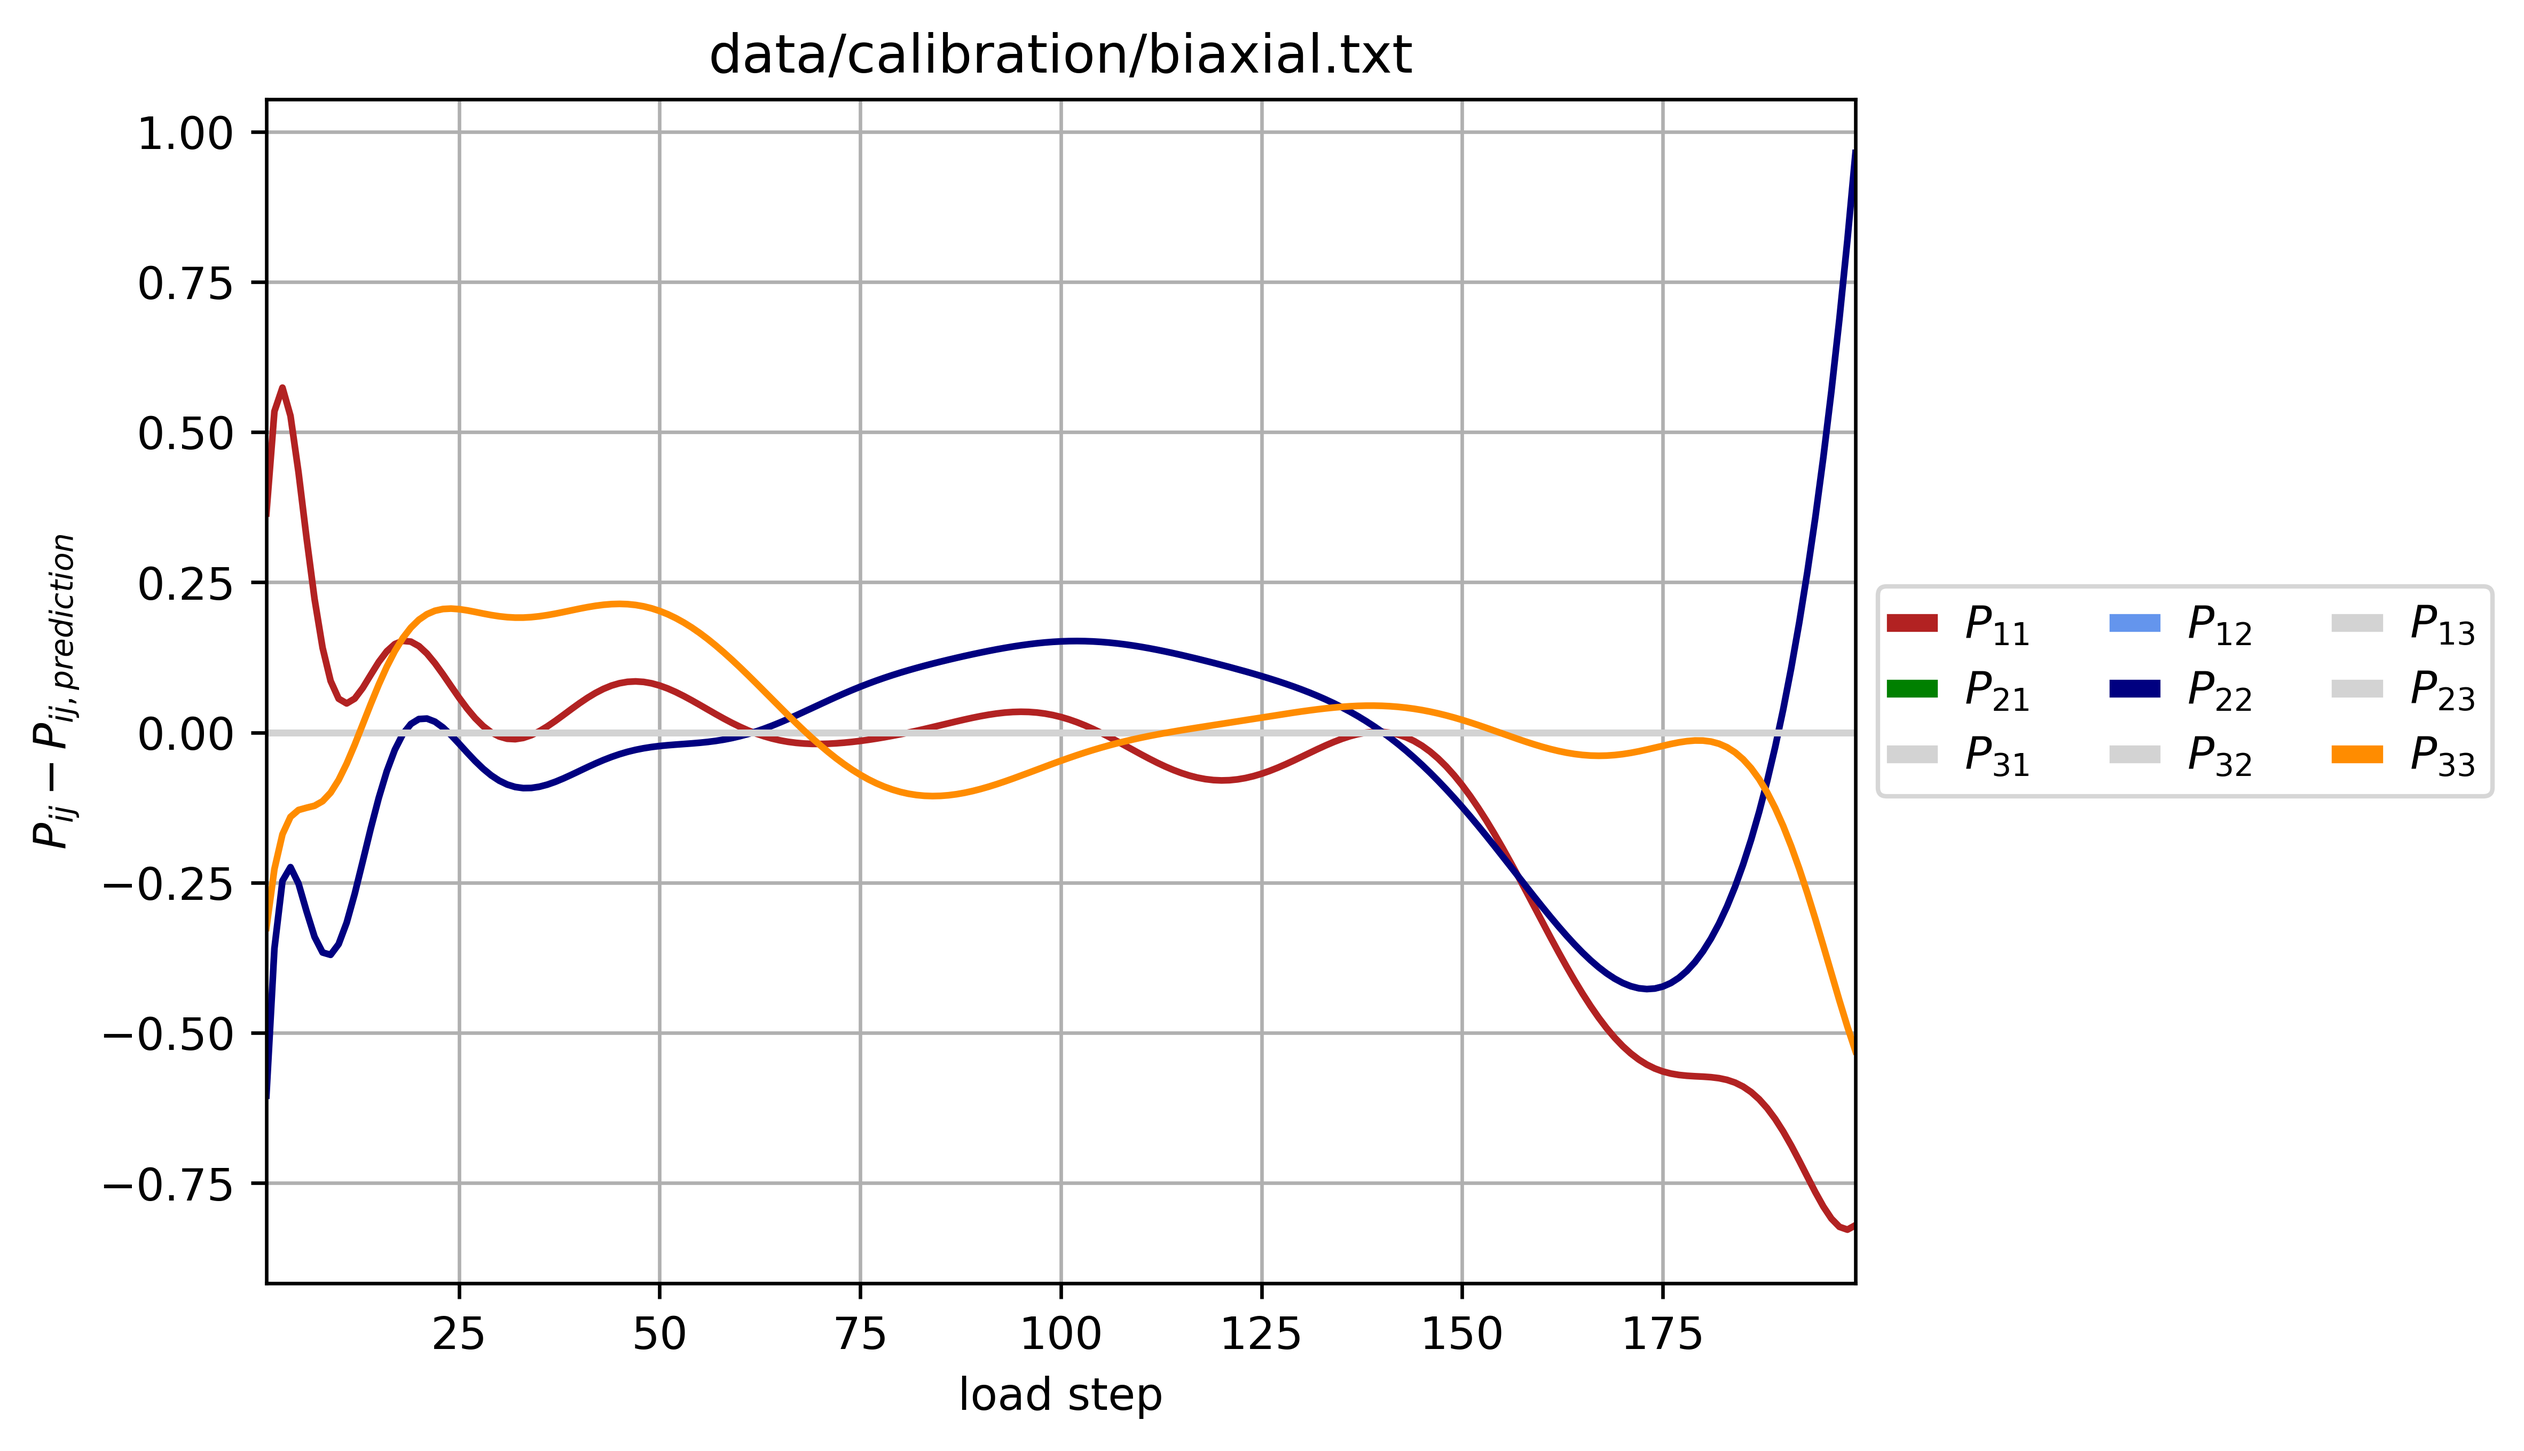
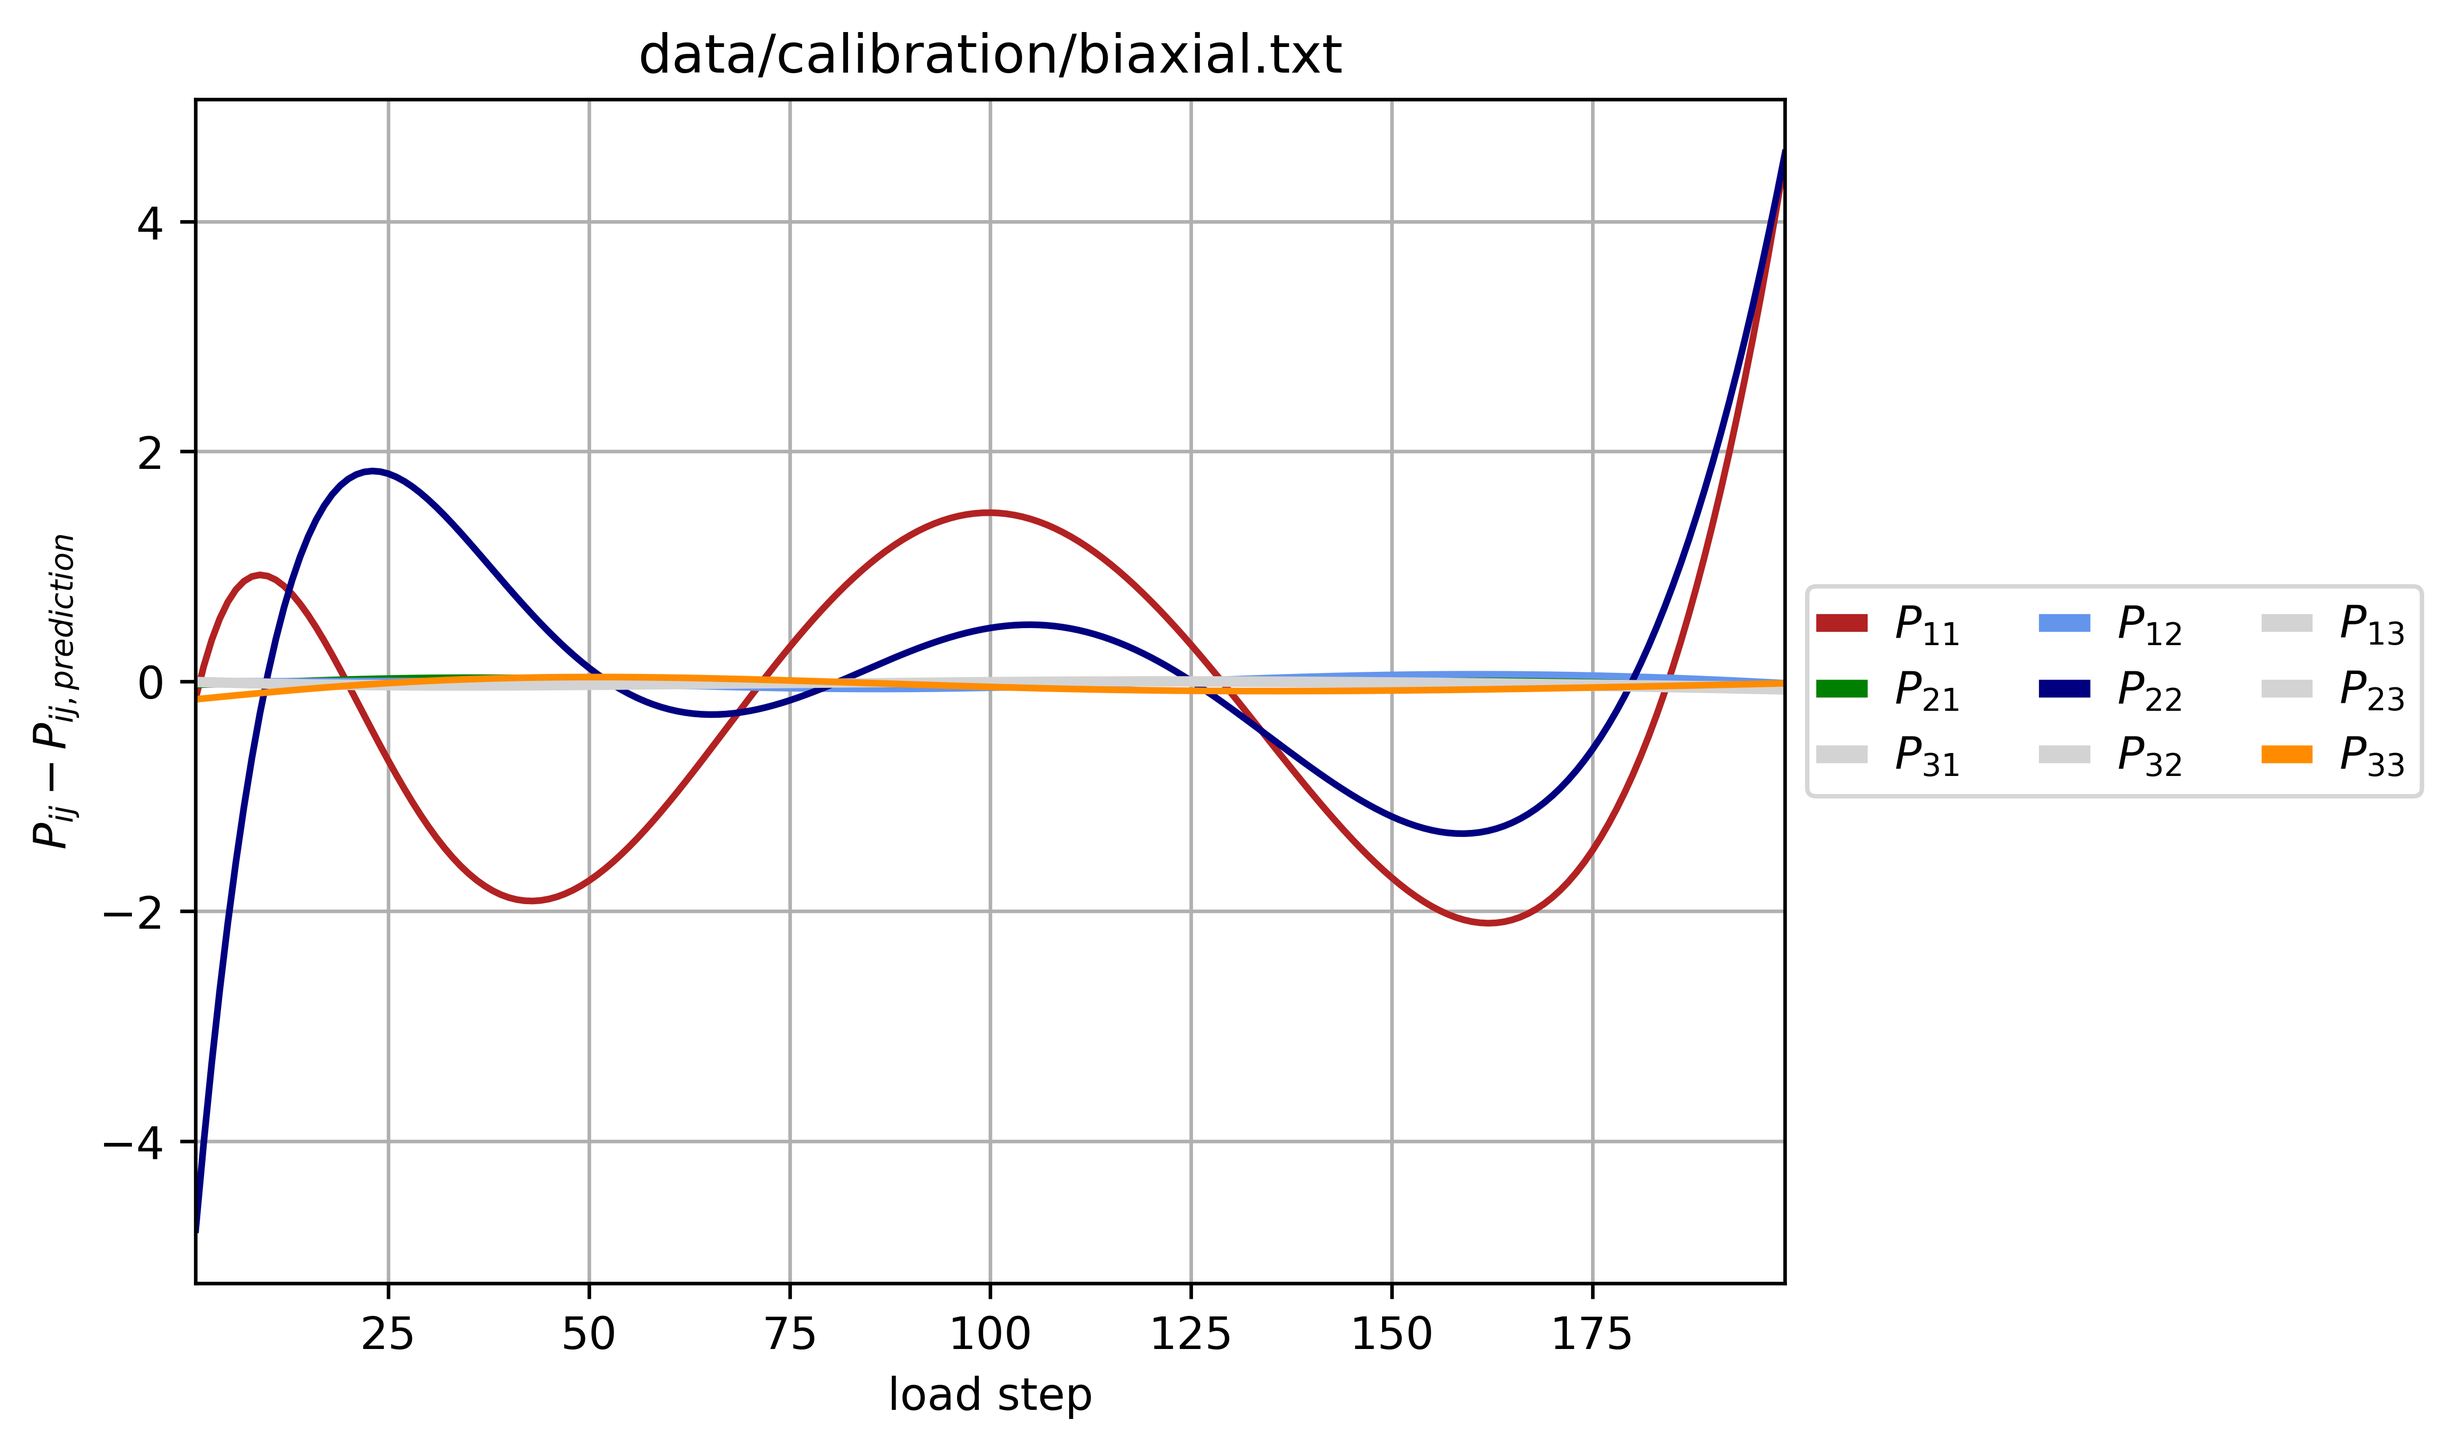
Loss weighting for evalutaion
Loss from the training process is now equal to the loss of when
calling model.evalute

diff --git a/02_hyperelasticity_I/modules/training.py b/02_hyperelasticity_I/modules/training.py
@@ -99,7 +99,7 @@ class PhysicsAugmented:
 
     def __evaluate_single_load_path(self, path, showplots=False):
         ''' Perform evaluation of a single load path '''
-        xs, ys, dys, _ = self.__load([path])
+        xs, ys, dys, batch_size = self.__load([path])
 
         # predict using the trained model
         ys_pred, dys_pred = self.model.predict(xs)
@@ -116,7 +116,14 @@ class PhysicsAugmented:
             # no normalization
             ys_eval = ys
 
-        loss = self.model.evaluate(xs, [ys_eval, dys], verbose=0)
+        if self.loss_weighting:
+            sample_weights = ld.get_sample_weights(xs, batch_size)
+        else:
+            sample_weights = np.ones(np.sum(batch_size))
+
+        loss = self.model.evaluate(xs, [ys_eval, dys], 
+                                    verbose=0,
+                                    sample_weight=sample_weights)
 
         if showplots:
             # reshape right Cauchy-Green-Tensor
@@ -193,11 +200,18 @@ class Naive:
         return losses
 
     def __evaluate_single_load_path(self, path, showplots=False):
-        xs, ys, dys, _ = self.__load([path])
+        xs, ys, dys, batch_size = self.__load([path])
 
         # predict using the trained model
         ys_pred, _ = self.model.predict(xs)
-        loss = self.model.evaluate(xs, [ys, dys], verbose=0)
+        if self.loss_weighting:
+            sample_weights = ld.get_sample_weights(xs, batch_size)
+        else:
+            sample_weights = np.ones(np.sum(batch_size))
+        
+        loss = self.model.evaluate(xs, [ys, dys], 
+                                verbose=0,
+                                sample_weight=sample_weights)
 
         if showplots:
             # plot right Chauchy-Green tensor

diff --git a/02_hyperelasticity_I/main_physics_augmented.py b/02_hyperelasticity_I/main_physics_augmented.py
@@ -37,13 +37,14 @@ paths = [
     ]
 
 #Alternative: concentric data
-#fnums = np.array([5, 27, 13, 49])
-#paths = ld.generate_concentric_paths(fnums)
+FNUM = 100
+fnum = tf.random.shuffle(np.arange(1,FNUM + 1))
+paths = ld.generate_concentric_paths(fnum)
 
 lw = [1, 1]
 loss_weighting=True
 
-tmodel = training.PhysicsAugmented(paths=paths[:3],
+tmodel = training.PhysicsAugmented(paths=paths[:10],
                                 loss_weights=lw,
                                 loss_weighting=loss_weighting)
 
@@ -57,10 +58,10 @@ print(f'P(I) =\t{dys_I[0,0]}\n\t{dys_I[0,1]}\n\t{dys_I[0,2]}')
 
 # %% Loss evalutation
 
-results = tmodel.evaluate(paths, showplots=True)
+results = tmodel.evaluate(paths[10:], showplots=False)
 loss = pd.DataFrame(results, columns=['total', 'W', 'P'])
 loss['total'] = loss['W'] + loss['P'] # in case some loss weights != 0
-loss['paths'] = paths
+loss['paths'] = paths[10:]
 loss
 
 # %% Model parameters

diff --git a/02_hyperelasticity_I/main_naive.py b/02_hyperelasticity_I/main_naive.py
@@ -37,15 +37,16 @@ paths = [
     ]
 
 #Alternative: concentric data
-# fnums = np.array([5, 27, 13, 49])
-# paths = ld.generate_concentric_paths(fnums)
+# FNUM = 100
+# fnum = tf.random.shuffle(np.arange(1,FNUM + 1))
+# paths = ld.generate_concentric_paths(fnum)
 
 loss_weighting=True
 
 tmodel = training.Naive(paths=paths[:3],
                         loss_weighting=loss_weighting)
 
-tmodel.calibrate(epochs=5000, verbose=2)
+tmodel.calibrate(epochs=1000, verbose=2)
 
 # %% Evalutation of normalization criterion
 
@@ -56,9 +57,9 @@ print(f'P(I) =\t{ys_I[0, 0]}\n\t{ys_I[0, 1]}\n\t{ys_I[0, 2]}')
 # %% Loss evalutation
 
 # in the naive approach ys is already the stress, therefore dys is ignored
-results = tmodel.evaluate(paths, showplots=True)
+results = tmodel.evaluate(paths[:], showplots=True)
 loss = pd.DataFrame(results[:,0], columns=['total'])
-loss['paths'] = paths
+loss['paths'] = paths[:]
 loss
 # %% Model parameters
 
